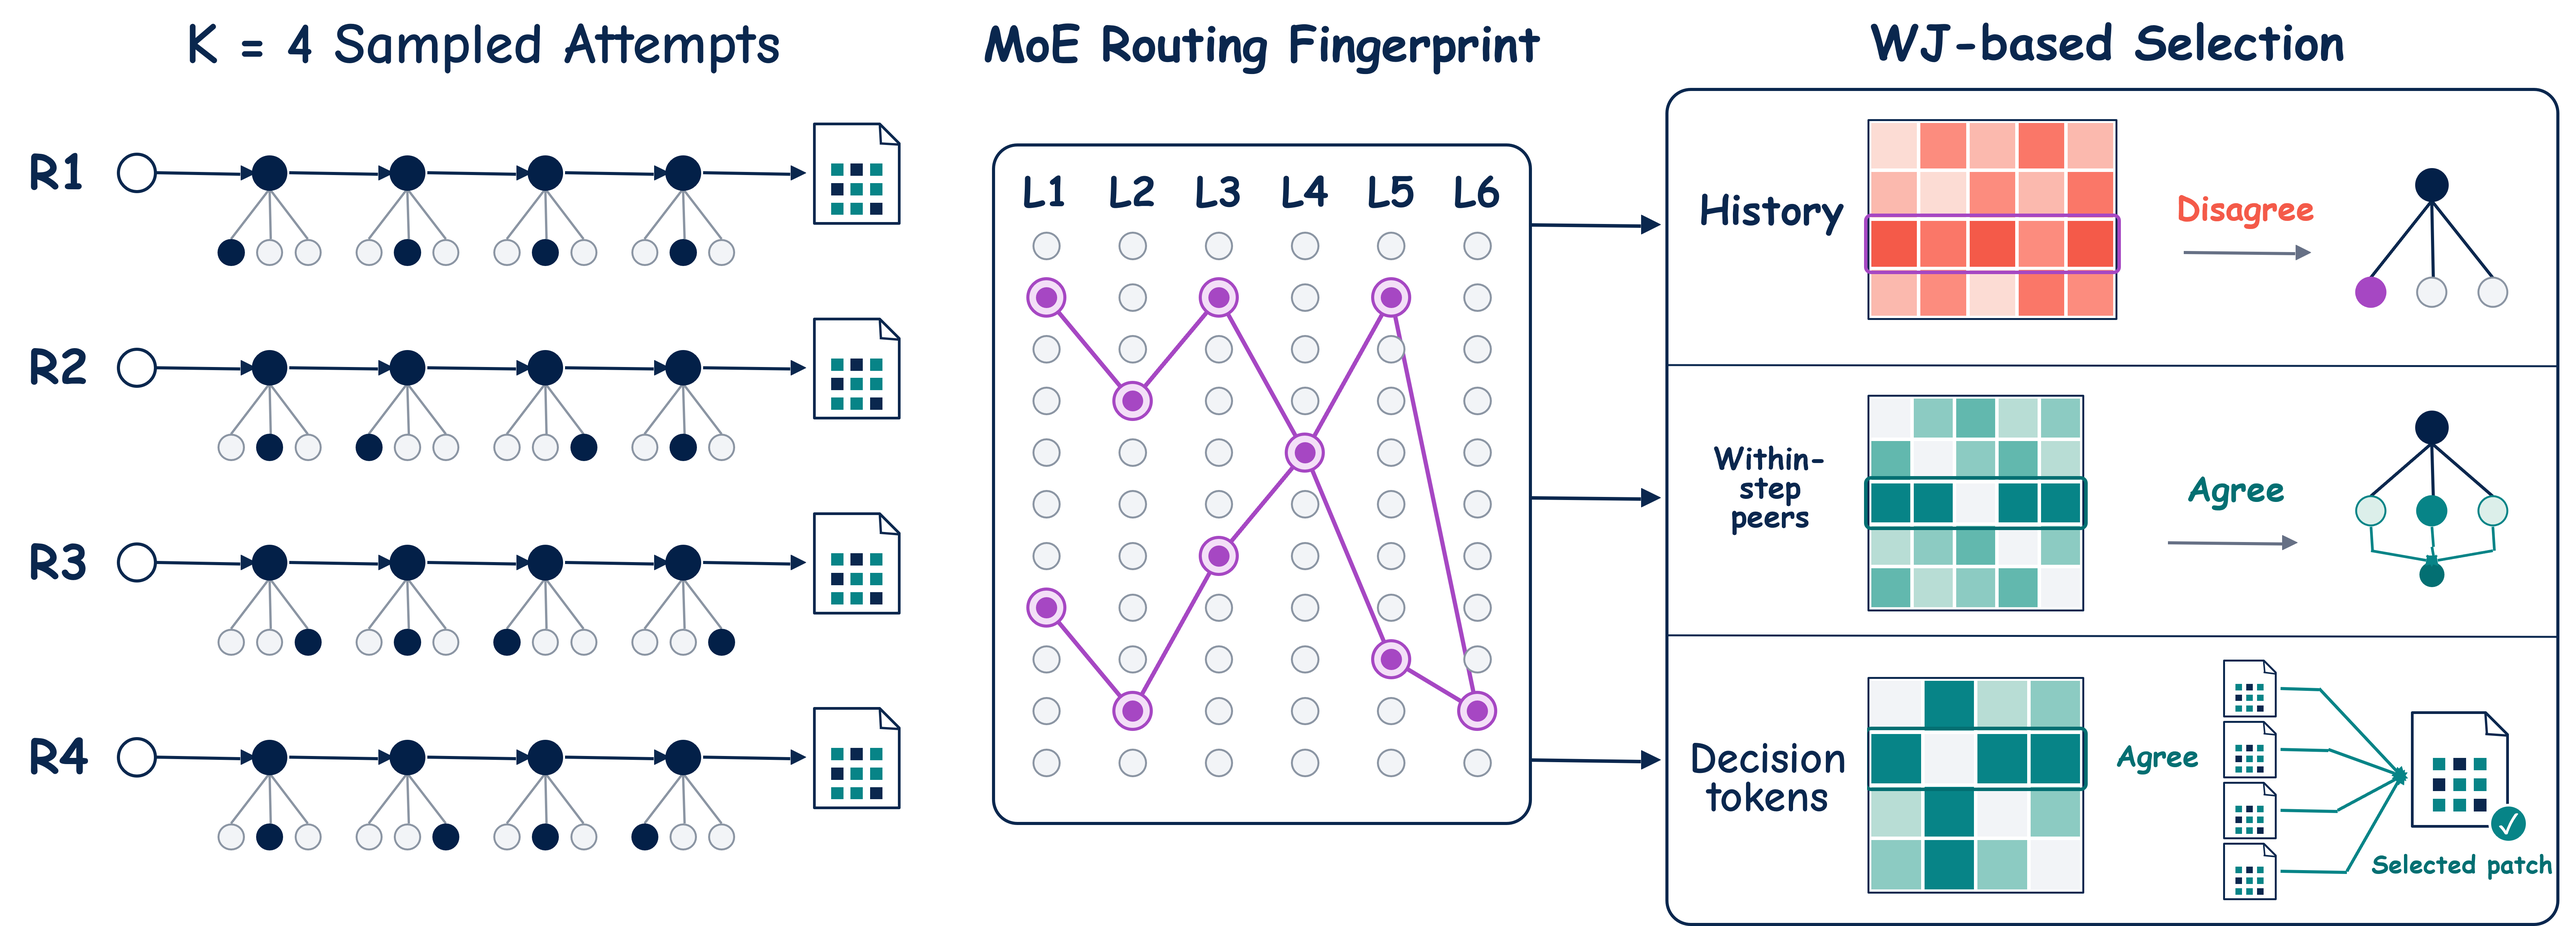
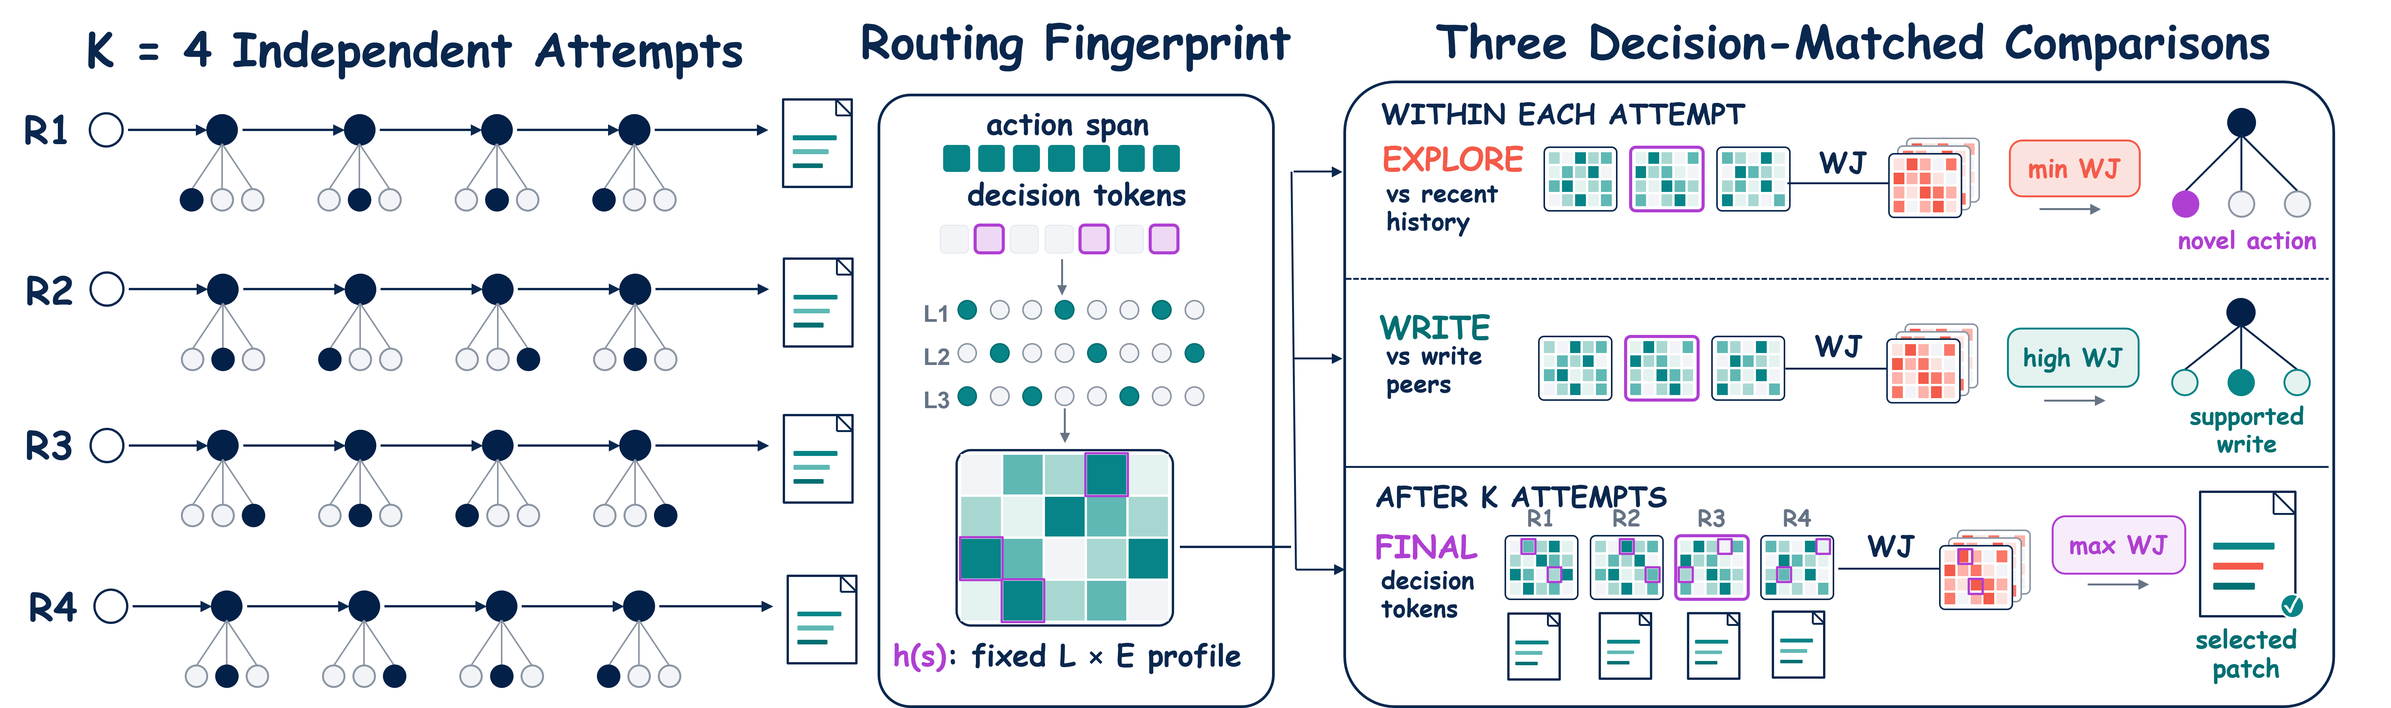
content: refresh RISA visual and publication links

diff --git a/academic.html b/academic.html
@@ -42,9 +42,8 @@
                         Disagree to Explore, Agree to Commit: Routing-Guided Test-Time Scaling for Software Agents
                         <br>
                         <em>Kang Chen<sup class="eq-mark">*</sup>, <strong>Junjie Nian</strong><sup class="eq-mark">*</sup>, Yixin Cao, Yugang Jiang</em>
-                        <em><strong>Preprint, 2026</strong></em>
-                        <a href="research/risa.html">[Details]</a>
                         <span class="coming-soon" aria-disabled="true">[arXiv forthcoming]</span>
+                        <a href="https://cckfdu.com/RISA" target="_blank" rel="noopener">[Website]</a>
                         <a href="https://github.com/JunjieNian/RISA" target="_blank" rel="noopener">[Code]</a>
                     </span>
                 </li>
@@ -100,9 +99,8 @@
                         Disagree to Explore, Agree to Commit: Routing-Guided Test-Time Scaling for Software Agents
                         <br>
                         <em>Kang Chen<sup class="eq-mark">*</sup>, <strong>Junjie Nian</strong><sup class="eq-mark">*</sup>, Yixin Cao, Yugang Jiang</em>
-                        <em><strong>Preprint, 2026</strong></em>
-                        <a href="research/risa.html">[Details]</a>
                         <span class="coming-soon" aria-disabled="true">[arXiv forthcoming]</span>
+                        <a href="https://cckfdu.com/RISA" target="_blank" rel="noopener">[Website]</a>
                         <a href="https://github.com/JunjieNian/RISA" target="_blank" rel="noopener">[Code]</a>
                     </span>
                 </li>
